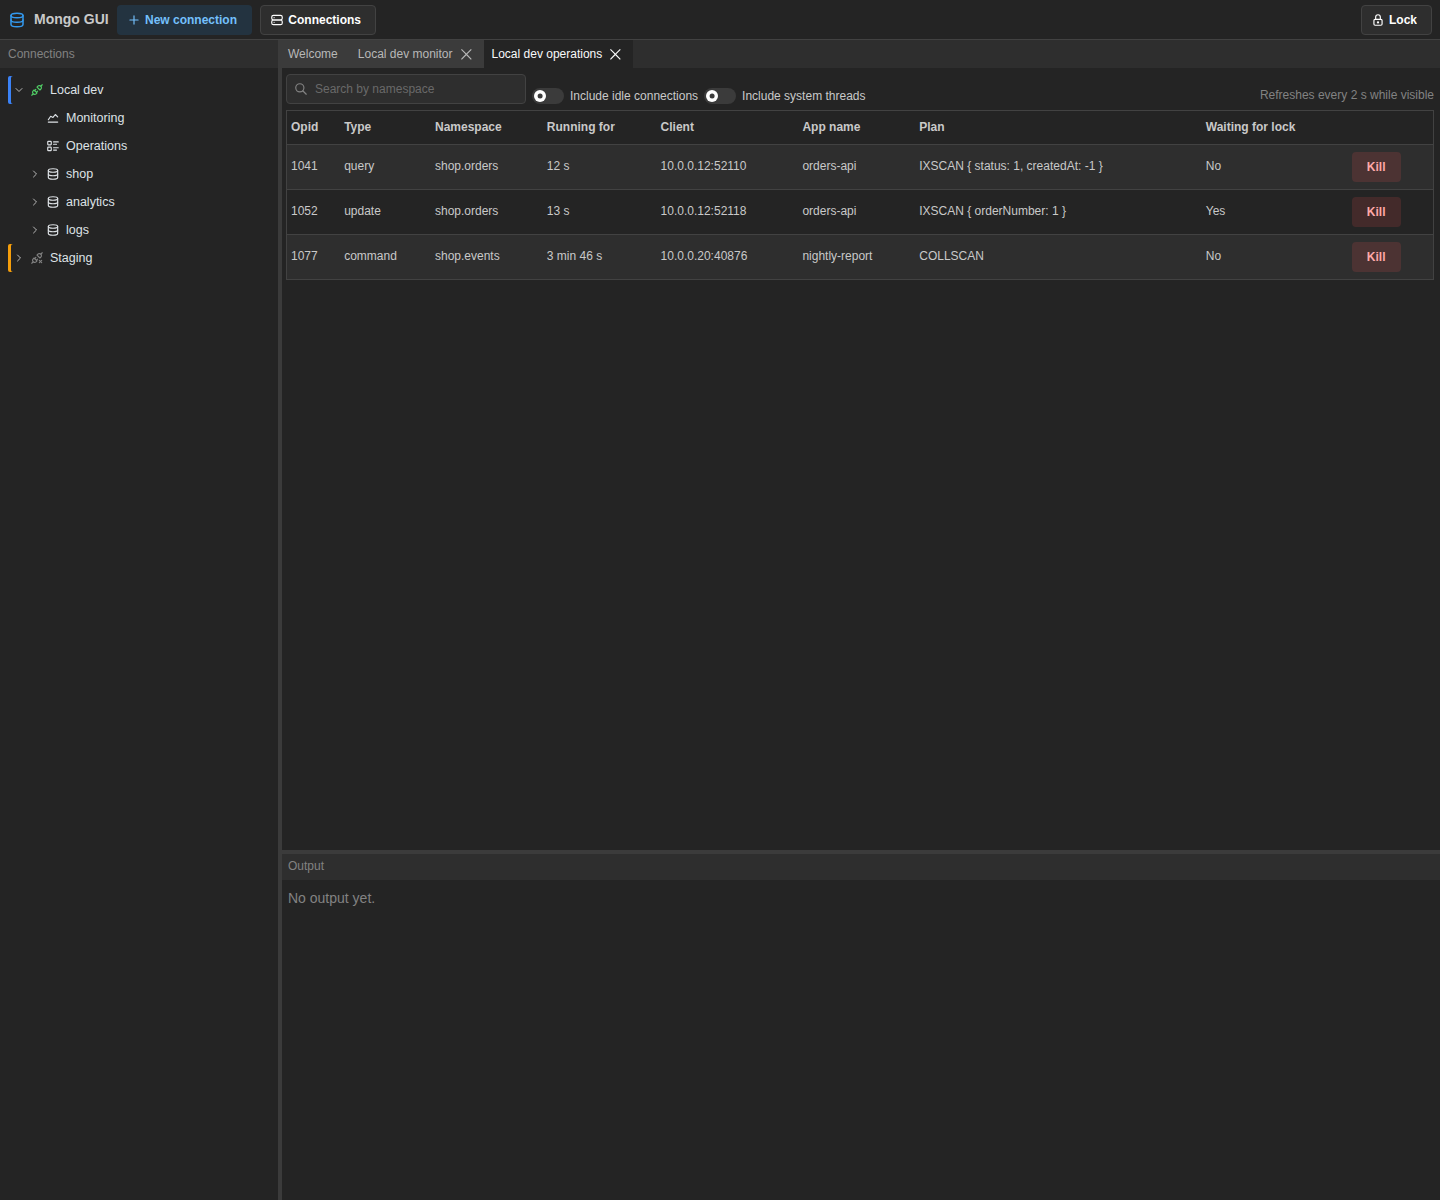
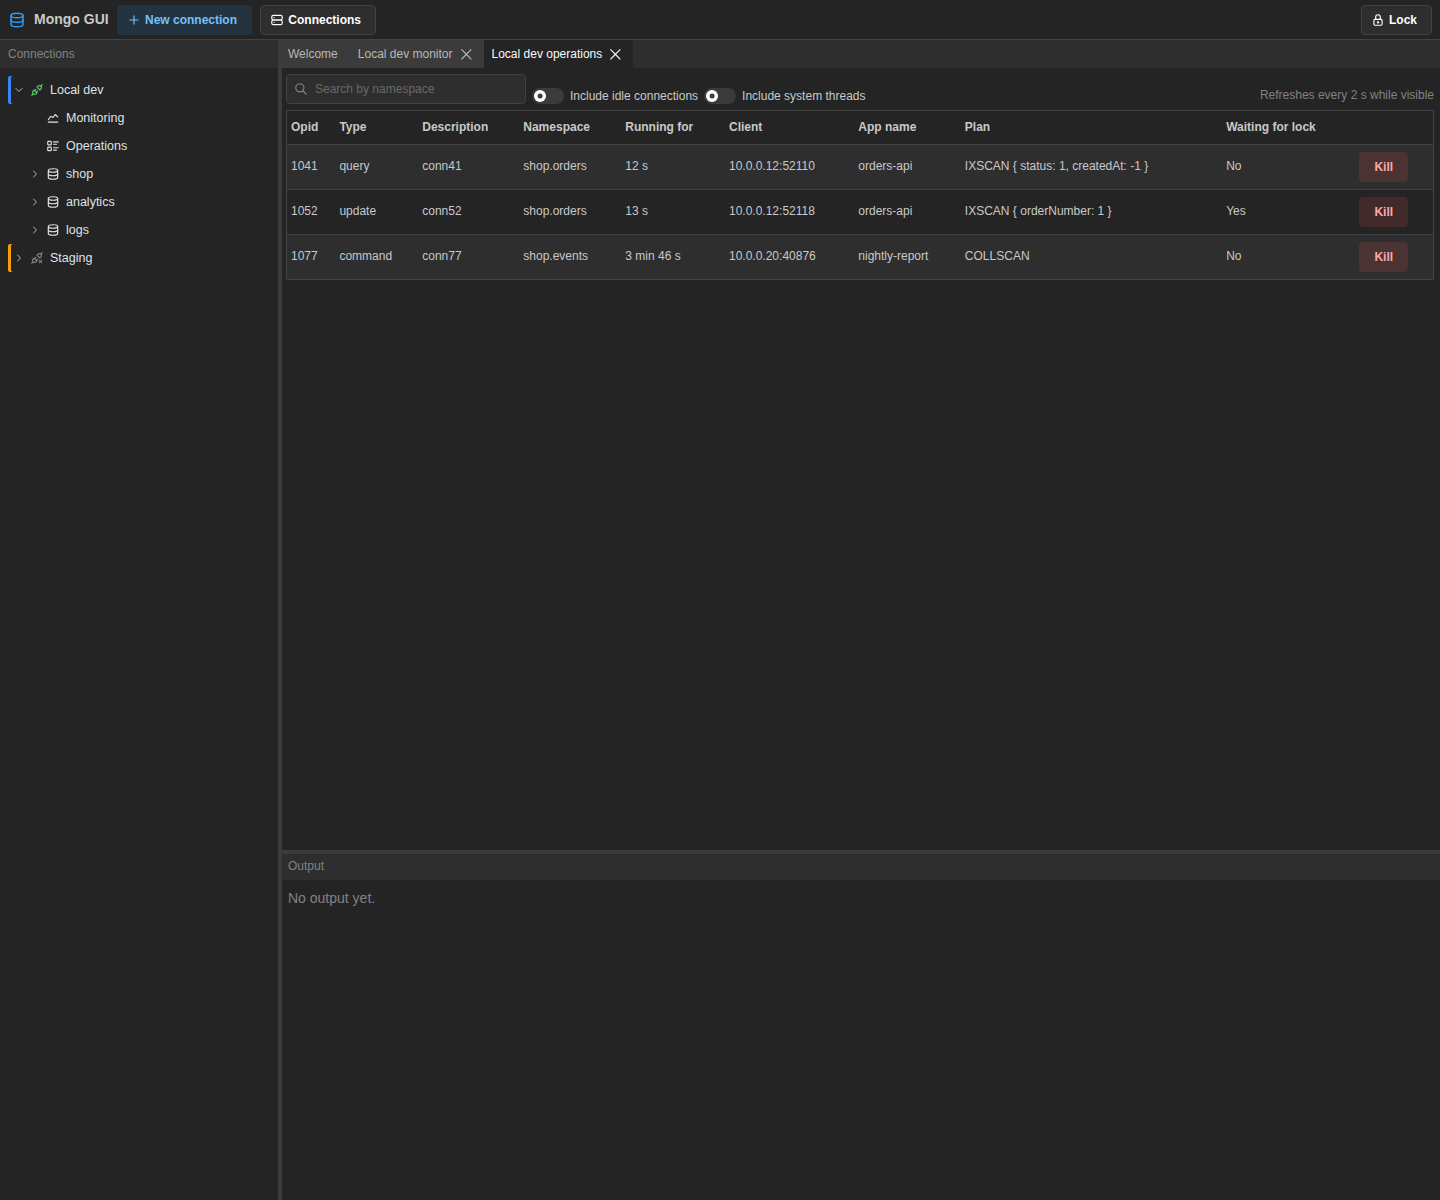
fix(P5-2): gap detection uses local sample spacing, start race test, operations screenshot
A gap is now measured against the spacing around each pair, not only the
current interval. History recorded at 10 s stays whole after the interval
drops to 1 s, and in the disconnected view.

The store keeps the chosen interval in the monitor view, so the selector
shows it while disconnected. A start whose reply arrives after a
disconnect is not applied, and a test covers that path.

Only monitor panels keep a sampler alive when they close. The tooltip is
capped to the plot height. The operations screenshot now shows the
Description column.

diff --git a/packages/ui/src/state/monitor-start.test.ts b/packages/ui/src/state/monitor-start.test.ts
@@ -1,0 +1,72 @@
+import { describe, expect, it } from 'vitest';
+import { localConnectionId } from '../api/mock-fixtures';
+import { createMockUiApi } from '../api/mock-rpc-client';
+import type { UiApi } from '../api/ui-api';
+import { createAppStore } from './app-store';
+
+const SETTLE_MS = 5;
+
+function settle(): Promise<void> {
+  return new Promise((resolve) => setTimeout(resolve, SETTLE_MS));
+}
+
+describe('startMonitor race', () => {
+  it('does not apply a start whose reply arrives after the connection dropped', async () => {
+    const base = createMockUiApi({ preset: 'unlocked' });
+    // The server starts the sampler right away, but its reply is held until the test releases it.
+    let release: () => void = () => undefined;
+    const gate = new Promise<void>((resolve) => {
+      release = resolve;
+    });
+    const api: UiApi = {
+      rpc: {
+        ...base.rpc,
+        monitor: {
+          ...base.rpc.monitor,
+          start: async (input) => {
+            const config = await base.rpc.monitor.start(input);
+            await gate;
+            return config;
+          },
+        },
+      },
+      onEvent: base.onEvent,
+    };
+    const store = createAppStore(api);
+    const unsubscribe = api.onEvent((event) => {
+      store.getState().applyEvent(event);
+    });
+    await base.rpc.connections.connect({ id: localConnectionId });
+
+    const starting = store.getState().startMonitor(localConnectionId, 1000);
+    await settle();
+    await base.rpc.connections.disconnect({ id: localConnectionId });
+    release();
+    await starting;
+
+    expect(store.getState().monitors[localConnectionId]?.config).toBeUndefined();
+    expect(await base.rpc.monitor.samples({ connectionId: localConnectionId })).toEqual([]);
+    unsubscribe();
+  });
+
+  it('keeps the interval chosen before a disconnect for the next start', async () => {
+    const base = createMockUiApi({ preset: 'unlocked' });
+    const store = createAppStore(base);
+    const unsubscribe = base.onEvent((event) => {
+      store.getState().applyEvent(event);
+    });
+    await base.rpc.connections.connect({ id: localConnectionId });
+    await store.getState().startMonitor(localConnectionId);
+    await store.getState().setMonitorInterval(localConnectionId, 5000);
+    await base.rpc.connections.disconnect({ id: localConnectionId });
+
+    expect(store.getState().monitors[localConnectionId]?.config).toBeUndefined();
+    expect(store.getState().monitors[localConnectionId]?.preferredIntervalMs).toBe(5000);
+
+    await base.rpc.connections.connect({ id: localConnectionId });
+    await store.getState().startMonitor(localConnectionId);
+    expect(store.getState().monitors[localConnectionId]?.config?.intervalMs).toBe(5000);
+    unsubscribe();
+    await base.rpc.monitor.stop({ connectionId: localConnectionId });
+  });
+});

diff --git a/packages/ui/src/state/app-store.ts b/packages/ui/src/state/app-store.ts
@@ -145,8 +145,6 @@ export function createAppStore(api: UiApi, initial: Partial<AppData> = {}): AppS
   const { rpc } = api;
   // Outside the state on purpose: these only matter to in-flight calls, not to rendering.
   const monitorGenerations = new Map<string, number>();
-  // The interval the user chose, kept so a reconnect restarts the sampler at the same rate.
-  const preferredIntervals = new Map<string, number>();
 
   return createStore<AppState>()((set, get) => {
     function clearSession(): void {
@@ -297,7 +295,7 @@ export function createAppStore(api: UiApi, initial: Partial<AppData> = {}): AppS
 
       async startMonitor(connectionId, intervalMs) {
         const generation = bumpMonitorGeneration(connectionId);
-        const requested = intervalMs ?? preferredIntervals.get(connectionId);
+        const requested = intervalMs ?? get().monitors[connectionId]?.preferredIntervalMs;
         const config = await rpc.monitor.start({ connectionId, intervalMs: requested });
         const history = await rpc.monitor.samples({ connectionId });
         // A stop, a disconnect or a newer start that happened meanwhile wins over this result.
@@ -307,13 +305,11 @@ export function createAppStore(api: UiApi, initial: Partial<AppData> = {}): AppS
         if (get().statuses[connectionId]?.state !== 'connected') {
           return;
         }
-        preferredIntervals.set(connectionId, config.intervalMs);
         updateMonitor(connectionId, (view) => applyStarted(view, config, history));
       },
 
       async setMonitorInterval(connectionId, intervalMs) {
         const config = await rpc.monitor.setInterval({ connectionId, intervalMs });
-        preferredIntervals.set(connectionId, config.intervalMs);
         updateMonitor(connectionId, (view) => applyIntervalChange(view, config));
       },
 

diff --git a/packages/ui/src/monitor/series.ts b/packages/ui/src/monitor/series.ts
@@ -143,17 +143,30 @@ interface Point {
   readonly sample: MonitorSample | undefined;
 }
 
+/**
+ * A pair of samples is a gap when its spacing exceeds 2.5 times the spacing around it. The spacing
+ * around a pair is the larger of its neighbouring pairs, and never less than the current interval.
+ * The local spacing keeps history recorded at an older interval intact after the interval changes.
+ */
 function pointsOf(samples: readonly MonitorSample[], intervalMs: number): Point[] {
+  const times = samples.map((sample) => Date.parse(sample.at));
+  const deltas = times.slice(1).map((time, index) => time - (times[index] ?? time));
   const points: Point[] = [];
-  let previous: number | undefined;
-  for (const sample of samples) {
-    const time = Date.parse(sample.at) / MS_PER_SECOND;
-    if (previous !== undefined && (time - previous) * MS_PER_SECOND > GAP_FACTOR * intervalMs) {
-      points.push({ time: previous + intervalMs / MS_PER_SECOND, sample: undefined });
+  samples.forEach((sample, index) => {
+    const time = times[index] ?? 0;
+    if (index > 0) {
+      const delta = deltas[index - 1] ?? 0;
+      const neighbours = [deltas[index - 2], deltas[index]].filter(
+        (value): value is number => value !== undefined,
+      );
+      const local = Math.max(intervalMs, ...neighbours);
+      if (delta > GAP_FACTOR * local) {
+        const breakTime = (times[index - 1] ?? time) + intervalMs;
+        points.push({ time: breakTime / MS_PER_SECOND, sample: undefined });
+      }
     }
-    points.push({ time, sample });
-    previous = time;
-  }
+    points.push({ time: time / MS_PER_SECOND, sample });
+  });
   return points;
 }
 

diff --git a/packages/ui/src/monitor/series.test.ts b/packages/ui/src/monitor/series.test.ts
@@ -133,6 +133,29 @@ describe('series breaks and folding', () => {
     expect(series.operations[1]?.values).toEqual([10, 10]);
   });
 
+  it('does not break history recorded at 10 s after the interval drops to 1 s', () => {
+    const slow = [0, 10, 20, 30].map((second) => sampleAt(second));
+    const fast = [31, 32, 33].map((second) => sampleAt(second));
+    const series = seriesFromSamples([...slow, ...fast], 1000);
+    expect(series.times).toHaveLength(7);
+    expect(series.operations[1]?.values.includes(null)).toBe(false);
+  });
+
+  it('keeps 10 s history in the disconnected view, which uses the 2 s default', () => {
+    const slow = [0, 10, 20, 30, 40, 50].map((second) => sampleAt(second));
+    const series = seriesFromSamples(slow, 2000);
+    expect(series.times).toHaveLength(6);
+    expect(series.operations[1]?.values.includes(null)).toBe(false);
+  });
+
+  it('still breaks the line at a real outage between fast samples', () => {
+    const before = [0, 1, 2].map((second) => sampleAt(second));
+    const after = [62, 63, 64].map((second) => sampleAt(second));
+    const series = seriesFromSamples([...before, ...after], 1000);
+    expect(series.times).toHaveLength(7);
+    expect(series.operations[1]?.values[3]).toBeNull();
+  });
+
   it('plots current connections and keeps available as a readout', () => {
     const sample = sampleAt(0, { connections: { current: 40, available: 800_000, active: 12 } });
     const series = seriesFromSamples([sample]);

diff --git a/packages/ui/src/screens/ShellScreen.tsx b/packages/ui/src/screens/ShellScreen.tsx
@@ -100,10 +100,8 @@ function openConnectionPanel(api: DockviewApi, request: Parameters<OpenPanel>[0]
   });
 }
 
-const CONNECTION_PANEL_ID = /^(monitor|operations):(.+)$/;
-
 /**
- * Stops a connection's sampler when its last monitor or operations panel closes. A reload of the
+ * Stops a connection's sampler when its last monitor panel closes. A reload of the
  * renderer also removes the panels, but no stop is sent then. The main process stops every sampler
  * on disconnect and on lock, so nothing keeps sampling after the window is gone.
  */
@@ -112,13 +110,14 @@ function stopSamplerWhenUnused(
   removedId: string,
   stop: (connectionId: string) => Promise<void>,
 ): void {
-  const match = CONNECTION_PANEL_ID.exec(removedId);
+  // Only monitor panels read samples. An operations panel does not keep the sampler alive.
+  const match = /^monitor:(.+)$/.exec(removedId);
   if (match === null) {
     return;
   }
-  const connectionId = match[2] ?? '';
+  const connectionId = match[1] ?? '';
   const stillOpen = api.panels.some(
-    (panel) => panel.id !== removedId && CONNECTION_PANEL_ID.exec(panel.id)?.[2] === connectionId,
+    (panel) => panel.id !== removedId && panel.id === `monitor:${connectionId}`,
   );
   if (!stillOpen) {
     void runReported(() => stop(connectionId));

diff --git a/packages/ui/src/state/monitor-state.ts b/packages/ui/src/state/monitor-state.ts
@@ -13,12 +13,15 @@ export interface MonitorView {
   readonly samples: readonly MonitorSample[];
   /** The last sampler error. A new sample clears it. */
   readonly error: AppError | undefined;
+  /** The interval the user chose. Kept while stopped, so a reconnect restarts at the same rate. */
+  readonly preferredIntervalMs: number | undefined;
 }
 
 export const EMPTY_MONITOR_VIEW: MonitorView = {
   config: undefined,
   samples: [],
   error: undefined,
+  preferredIntervalMs: undefined,
 };
 
 function retentionOf(view: MonitorView): number {
@@ -47,11 +50,12 @@ export function applyStarted(
     config,
     samples: mergeSamples(view.samples, history, config.retentionMs),
     error: undefined,
+    preferredIntervalMs: config.intervalMs,
   };
 }
 
 export function applyIntervalChange(view: MonitorView, config: MonitorConfig): MonitorView {
-  return { ...view, config };
+  return { ...view, config, preferredIntervalMs: config.intervalMs };
 }
 
 /** The sampler is gone. Samples stay so the dashboard can show what it had. */

diff --git a/packages/ui/src/api/mock-monitor.ts b/packages/ui/src/api/mock-monitor.ts
@@ -76,6 +76,7 @@ const FIXTURE_OPERATIONS: readonly FixtureOperation[] = [
       op: 'query',
       ns: 'shop.orders',
       client: '10.0.0.12:52110',
+      desc: 'conn41',
       appName: 'orders-api',
       planSummary: 'IXSCAN { status: 1, createdAt: -1 }',
       command: { find: 'orders', filter: { status: 'paid' }, limit: 50 },
@@ -92,6 +93,7 @@ const FIXTURE_OPERATIONS: readonly FixtureOperation[] = [
       op: 'update',
       ns: 'shop.orders',
       client: '10.0.0.12:52118',
+      desc: 'conn52',
       appName: 'orders-api',
       planSummary: 'IXSCAN { orderNumber: 1 }',
       command: {
@@ -111,6 +113,7 @@ const FIXTURE_OPERATIONS: readonly FixtureOperation[] = [
       op: 'command',
       ns: 'shop.events',
       client: '10.0.0.20:40876',
+      desc: 'conn77',
       appName: 'nightly-report',
       planSummary: 'COLLSCAN',
       command: {

diff --git a/packages/ui/src/monitor/MonitorDashboard.tsx b/packages/ui/src/monitor/MonitorDashboard.tsx
@@ -119,7 +119,9 @@ export function MonitorDashboard({ connectionId }: MonitorDashboardProps) {
     }
   }, [connected, running, connectionId, startMonitor]);
 
-  const intervalMs = view.config?.intervalMs ?? DEFAULT_MONITOR_INTERVAL_MS;
+  // While stopped, the selector still shows the interval the user chose, so it matches what a reconnect uses.
+  const intervalMs =
+    view.config?.intervalMs ?? view.preferredIntervalMs ?? DEFAULT_MONITOR_INTERVAL_MS;
   const source = frozen ?? view.samples;
   const windowed = useMemo(() => rangeSamples(source, range), [source, range]);
   const series = useMemo(() => seriesFromSamples(windowed, intervalMs), [windowed, intervalMs]);

diff --git a/packages/ui/src/monitor/UPlotChart.tsx b/packages/ui/src/monitor/UPlotChart.tsx
@@ -120,6 +120,9 @@ function renderTooltip(plot: uPlot, element: HTMLDivElement, series: readonly Ch
   const top = plot.cursor.top ?? 0;
   const overWidth = plot.over.clientWidth;
   const overHeight = plot.over.clientHeight;
+  // A tall tooltip in a short plot is cut to the plot area, never drawn past its edges.
+  element.style.maxHeight = `${Math.max(0, overHeight - 2 * TOOLTIP_OFFSET_PX)}px`;
+  element.style.overflow = 'hidden';
   const preferredX =
     left > overWidth / 2
       ? left - element.offsetWidth - TOOLTIP_OFFSET_PX
